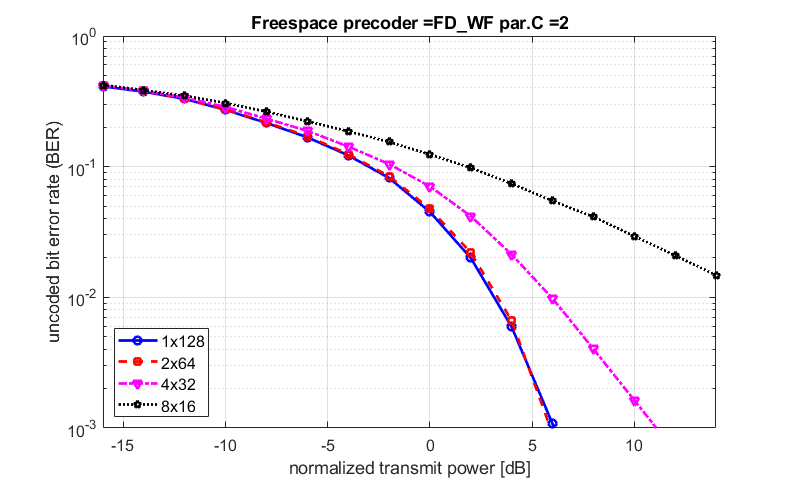
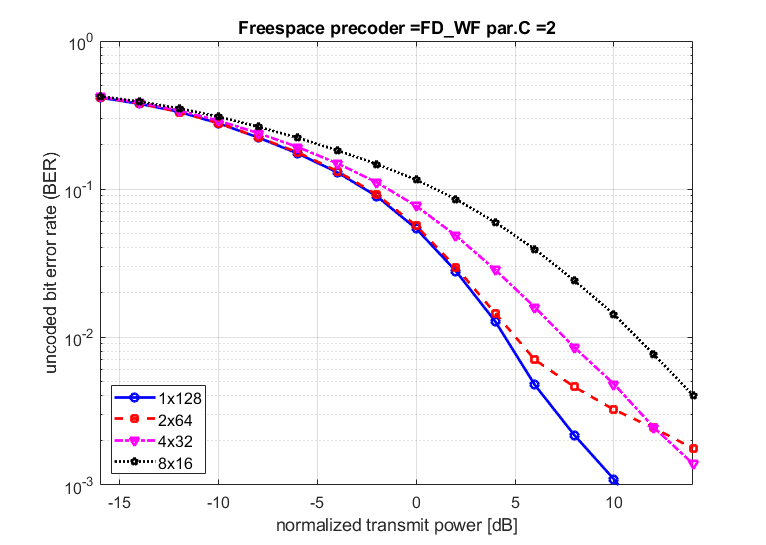
updated channel_sim and figures

diff --git a/Quadriga/tutorials/decent_uplink/channel_sim.m b/Quadriga/tutorials/decent_uplink/channel_sim.m
@@ -1,14 +1,15 @@
 function csi_mat = channel_sim(par)
 
-
+% par.array_v = 8;
+% par.array_h = 16;
 %% Set up input parameters
 % feel free to change these parameters
 show = 0; % 1 = generate plots, 0 = don't generate plots
 % rng(1) % set random seed: comment out this line to generate a different channel each time
 % par.scenario = 'Freespace'; % 'BERLIN_UMa_NLOS', 'Freespace', 'mmMAGIC_UMi_LOS', 'mmMAGIC_UMi_NLOS'
-% par.fc = 60e9; % carrier frequency [Hz]
-% par.BW = 14e6; % bandwidth [Hz]
-% par.N = 2048; % number of carriers
+% par.fc = 3.5e9; % carrier frequency [Hz]
+% par.BW = 10e6; % bandwidth [Hz]
+% par.N = 1024; % number of carriers
 % par.B = 128; % number of antennas in the BS (we use a single BS)
 % par.U = 8; % number of single-antenna UEs
 
@@ -39,7 +40,7 @@ s.show_progress_bars = false;
 %creating a randomization of UE's that guarantees outside of sep_ang
 %degrees separation between UEs. Up to a maximum of rand_trials iterations
 
-sep_ang = 5;                                %miminum degrees separation desired
+sep_ang = 1;                                %miminum degrees separation desired
 rand_trials = 100;                           %number of attempts to randomly create angular spacing
 count = 0;                                  %compared against rand_trials
 angle_par = 1;                              %stays 1 unless UEs are adequately spaced
@@ -68,9 +69,22 @@ UE_y_locs = UE_dist.*sin(UE_ang);       %'polar' coordinate to rectangular
 UE_z_locs = 1.5*ones(par.U,1);
 
 % place BS antennas only on y-axis at half wavelength spacing (units in m)
-BS_x_locs = zeros(par.B,1);
-BS_y_locs = s.wavelength/2*(-(par.B-1)/2:1:(par.B-1)/2)';
-BS_z_locs = 25*ones(par.B,1); % note that the height of the transmitter is 25m
+% BS_x_locs = zeros(par.B,1);
+% BS_y_locs = s.wavelength/2*(-(par.B-1)/2:1:(par.B-1)/2)';
+% BS_z_locs = 25*ones(par.B,1); % note that the height of the transmitter is 25m
+
+% place BS antennas as a 2D array
+BS_x_locs = zeros(par.array_v,par.array_h);
+BS_y_locs = s.wavelength/2*(-(par.array_h-1)/2:1:(par.array_h-1)/2);
+BS_z_locs = (s.wavelength/2*(-(par.array_v-1)/2:1:(par.array_v-1)/2))';
+
+BS_y_locs = kron(ones(par.array_v,1),BS_y_locs);
+BS_z_locs = 25*ones(par.array_v, par.array_h) + kron(ones(1,par.array_h),BS_z_locs);
+
+BS_x_locs = reshape(BS_x_locs',par.B,1);
+BS_y_locs = reshape(BS_y_locs',par.B,1);
+BS_z_locs = reshape(BS_z_locs',par.B,1);
+
 
 %% Assign geometry to layout object
 % Create new QuaDRiGa layout object

diff --git a/Quadriga/tutorials/channel_sim.m b/Quadriga/tutorials/channel_sim.m
@@ -1,17 +1,17 @@
 function csi_mat = channel_sim(par)
 
-par.array_v = 8;
-par.array_h = 16;
+% par.array_v = 8;
+% par.array_h = 16;
 %% Set up input parameters
 % feel free to change these parameters
-show = 1; % 1 = generate plots, 0 = don't generate plots
-rng(1) % set random seed: comment out this line to generate a different channel each time
-par.scenario = 'Freespace'; % 'BERLIN_UMa_NLOS', 'Freespace', 'mmMAGIC_UMi_LOS', 'mmMAGIC_UMi_NLOS'
-par.fc = 3.5e8; % carrier frequency [Hz]
-par.BW = 10e6; % bandwidth [Hz]
-par.N = 1024; % number of carriers
-par.B = 128; % number of antennas in the BS (we use a single BS)
-par.U = 8; % number of single-antenna UEs
+show = 0; % 1 = generate plots, 0 = don't generate plots
+% rng(1) % set random seed: comment out this line to generate a different channel each time
+% par.scenario = 'Freespace'; % 'BERLIN_UMa_NLOS', 'Freespace', 'mmMAGIC_UMi_LOS', 'mmMAGIC_UMi_NLOS'
+% par.fc = 3.5e9; % carrier frequency [Hz]
+% par.BW = 10e6; % bandwidth [Hz]
+% par.N = 1024; % number of carriers
+% par.B = 128; % number of antennas in the BS (we use a single BS)
+% par.U = 8; % number of single-antenna UEs
 
 %% Set up simulation parameters
 % probably don't need to change these parameters
@@ -81,9 +81,9 @@ BS_z_locs = (s.wavelength/2*(-(par.array_v-1)/2:1:(par.array_v-1)/2))';
 BS_y_locs = kron(ones(par.array_v,1),BS_y_locs);
 BS_z_locs = 25*ones(par.array_v, par.array_h) + kron(ones(1,par.array_h),BS_z_locs);
 
-BS_x_locs = reshape(BS_x_locs',128,1);
-BS_y_locs = reshape(BS_y_locs',128,1);
-BS_z_locs = reshape(BS_z_locs',128,1);
+BS_x_locs = reshape(BS_x_locs',par.B,1);
+BS_y_locs = reshape(BS_y_locs',par.B,1);
+BS_z_locs = reshape(BS_z_locs',par.B,1);
 
 
 %% Assign geometry to layout object

diff --git a/Quadriga/tutorials/decent_uplink/decent_quadriga.m b/Quadriga/tutorials/decent_uplink/decent_quadriga.m
@@ -1,5 +1,5 @@
  par.runId = 0; % simulation ID (used to reproduce results)
-    par.C = 4;
+    par.C = 2;
     par.MR = 128; % total receive antennas
     
     par.MT = 8; % transmit antennas (set not larger than MR!)
@@ -10,11 +10,11 @@
     % MR/C has to be integer!
 
     par.mod = '16QAM'; % modulation type: 'BPSK','QPSK','16QAM','64QAM'
-    par.trials = 100; % number of Monte-Carlo trials (transmissions)    
+    par.trials = 200; % number of Monte-Carlo trials (transmissions)    
     
 %% added parameters for QuaDRiGa
-    par.scenario = 'mmMAGIC_UMi_LOS'; % 'BERLIN_UMa_NLOS', 'Freespace', 'mmMAGIC_UMi_LOS', 'mmMAGIC_UMi_NLOS'
-    par.fc = 30e9; % carrier frequency [Hz]
+    par.scenario = 'Freespace'; % 'BERLIN_UMa_NLOS', 'Freespace', 'mmMAGIC_UMi_LOS', 'mmMAGIC_UMi_NLOS'
+    par.fc = 3.5e9; % carrier frequency [Hz]
     par.BW = 10e6; % bandwidth [Hz]
     par.N = 1024; % number of carriers
     par.B = par.MR; % number of antennas in the BS (we use a single BS)
@@ -40,9 +40,11 @@
     
 %%
 par.iid = 1;
+par.array_v = 1;
+par.array_h = par.B/par.array_v;
 decentralized_MIMOsim(par);
 hold on
 par.iid = 0;
 decentralized_MIMOsim(par);
 hold off
-title(['Par.C = ' num2str(par.C) par.scenario ' fc = ' num2str(par.fc)], 'Interpreter','none');
+title(['Par.C = ' num2str(par.C) par.scenario ], 'Interpreter','none');

diff --git a/Quadriga/tutorials/quadriga_downlink.m b/Quadriga/tutorials/quadriga_downlink.m
@@ -7,7 +7,7 @@ par.T = 10;                  % number of time slots
 par.C = 8;                  % number of clusters
 par.S = par.B/par.C;
 par.mod = '16QAM';          % modulation type: 'BPSK','QPSK','16QAM','64QAM','8PSK'
-par.trials = 1e2;           % number of Monte-Carlo trials (transmissions)
+par.trials = 2e2;           % number of Monte-Carlo trials (transmissions)
 par.NTPdB_list = -16:2:14;  % list of normalized transmit power [dB] values
 par.rho2 = 1;               % rho^2=1 (should NOT affect your results!)
 %par.precoder = {'MRT','SMRT','ZF','WF','PD_WF','FD_WF','DP_legacy'};    
@@ -45,16 +45,16 @@ par.array_h = par.B/par.array_v;
 par.iter = 0;
 downlink(par);
 hold on
-% par.array_v = 2;
-% par.array_h = par.B/par.array_v;
-% par.iter = 1;
-% downlink(par);
-% hold on
-% par.array_v = 4;
-% par.array_h = par.B/par.array_v;
-% par.iter = 2;
-% downlink(par);
-% hold on
+par.array_v = 2;
+par.array_h = par.B/par.array_v;
+par.iter = 1;
+downlink(par);
+hold on
+par.array_v = 4;
+par.array_h = par.B/par.array_v;
+par.iter = 2;
+downlink(par);
+hold on
 par.array_v = 8;
 par.array_h = par.B/par.array_v;
 par.iter = 3;
